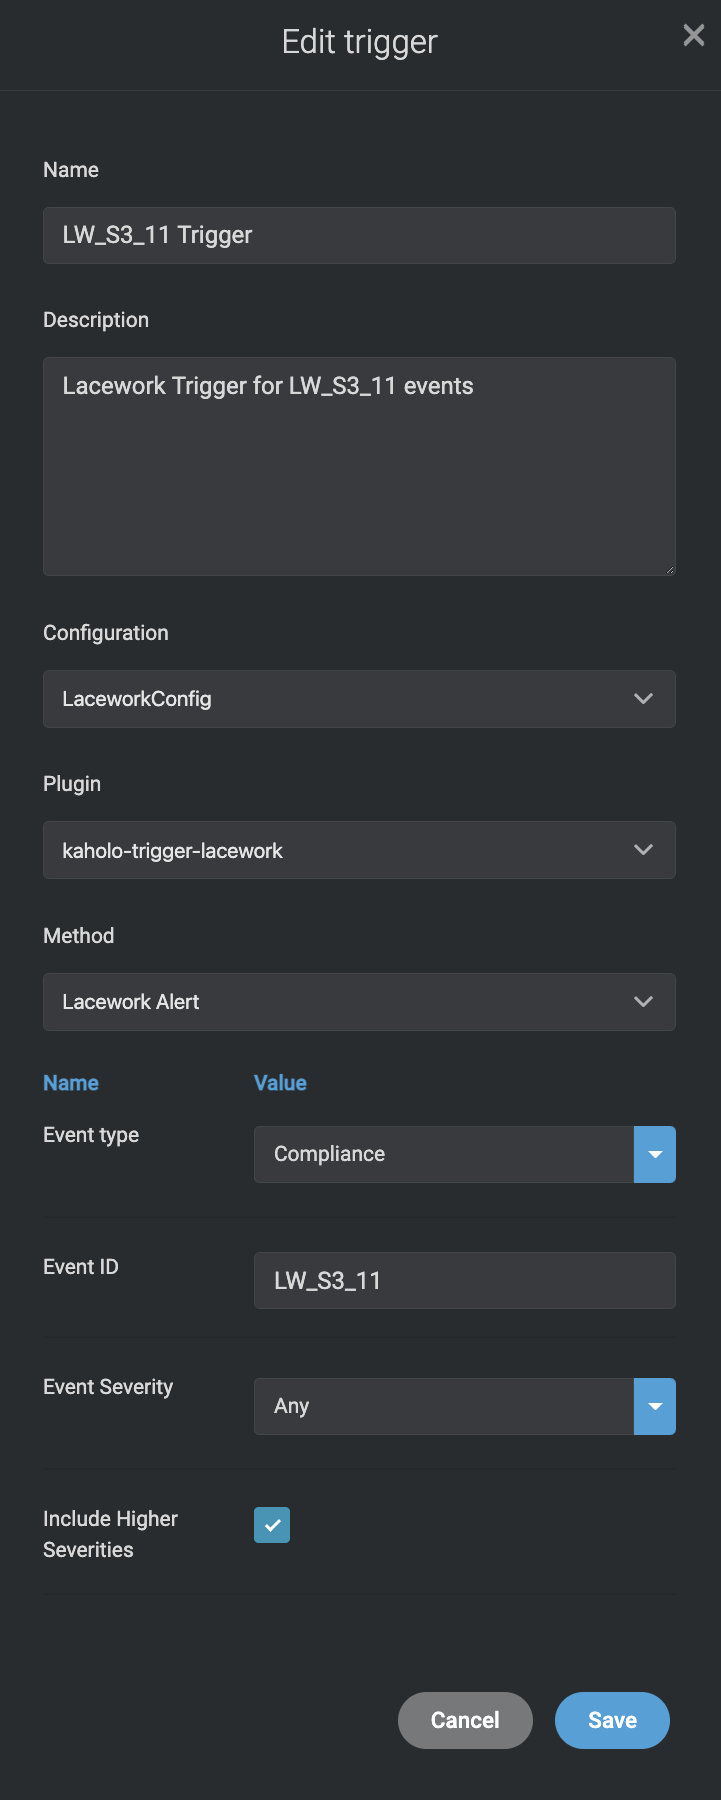
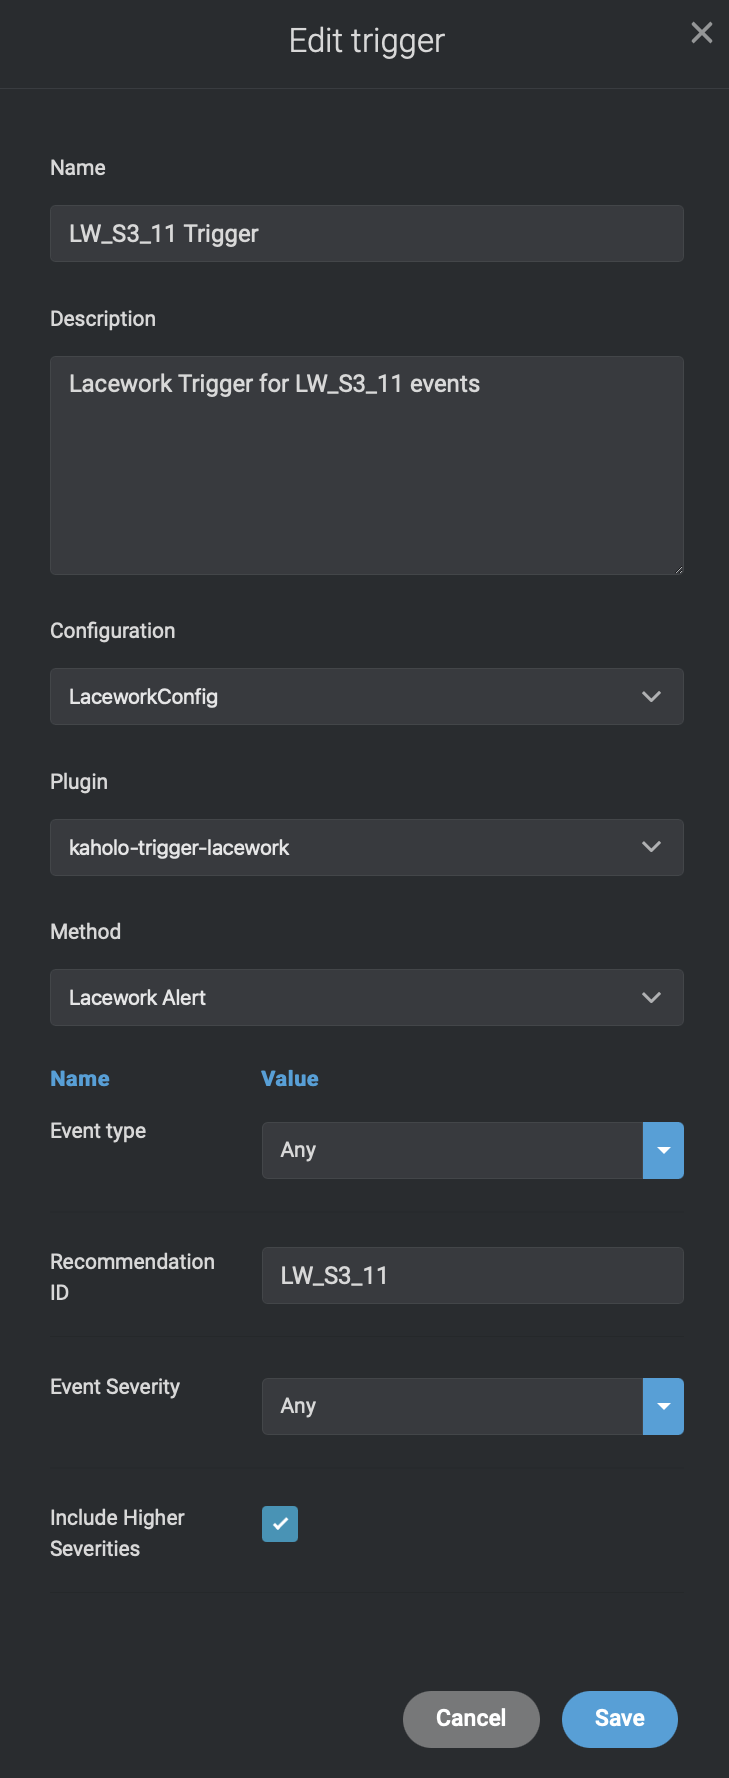
Updating for new Webhook trigger
Updating the Event ID to Recommendation ID

diff --git a/maps/compliance/aws/LW_S3_17/README.md b/maps/compliance/aws/LW_S3_17/README.md
@@ -117,7 +117,7 @@ Make sure that the Map Webhook Trigger is configured with the following configur
 2. The Plugin setting needs to be configured with the Lacework Webhook Plugin **kaholo-trigger-lacework**
 3. For the Method setting you need to select **Lacework Alert**
 4. The Variable **Event type** needs to be configured with Value **Compliance**
-5. The Variable **Event ID** needs to be configured with Value **LW_S3_17**.
+5. The Variable **Recommendation ID** needs to be configured with Value **LW_S3_17**.
 6. The Variable **Event Severity** needs to be configured with the Value **Any** or **High**
 7. Make sure to enable the Checkbox **Include Higher Severities**.
 

diff --git a/maps/compliance/aws/LW_S3_10/README.md b/maps/compliance/aws/LW_S3_10/README.md
@@ -74,7 +74,7 @@ Make sure that the Map Webhook Trigger is configured with the following configur
 2. The Plugin setting needs to be configured with the Lacework Webhook Plugin **kaholo-trigger-lacework**
 3. For the Method setting you need to select **Lacework Alert**
 4. The Variable **Event type** needs to be configured with Value **Compliance**
-5. The Variable **Event ID** needs to be configured with Value **LW_S3_10**.
+5. The Variable **Recommendation ID** needs to be configured with Value **LW_S3_10**.
 6. The Variable **Event Severity** needs to be configured with the Value **Any** or **High**
 7. Make sure to enable the Checkbox **Include Higher Severities**.
 

diff --git a/maps/compliance/aws/LW_S3_11/README.md b/maps/compliance/aws/LW_S3_11/README.md
@@ -91,7 +91,7 @@ Make sure that the Map Webhook Trigger is configured with the following configur
 2. The Plugin setting needs to be configured with the Lacework Webhook Plugin **kaholo-trigger-lacework**
 3. For the Method setting you need to select **Lacework Alert**
 4. The Variable **Event type** needs to be configured with Value **Compliance**
-5. The Variable **Event ID** needs to be configured with Value **LW_S3_11**.
+5. The Variable **Recommendation ID** needs to be configured with Value **LW_S3_11**.
 6. The Variable **Event Severity** needs to be configured with the Value **Any** or **High**
 7. Make sure to enable the Checkbox **Include Higher Severities**.
 

diff --git a/maps/compliance/aws/LW_S3_12/README.md b/maps/compliance/aws/LW_S3_12/README.md
@@ -70,7 +70,7 @@ Make sure that the Map Webhook Trigger is configured with the following configur
 2. The Plugin setting needs to be configured with the Lacework Webhook Plugin **kaholo-trigger-lacework**
 3. For the Method setting you need to select **Lacework Alert**
 4. The Variable **Event type** needs to be configured with Value **Compliance**
-5. The Variable **Event ID** needs to be configured with Value **LW_S3_12**.
+5. The Variable **Recommendation ID** needs to be configured with Value **LW_S3_12**.
 6. The Variable **Event Severity** needs to be configured with the Value **Any** or **High**
 7. Make sure to enable the Checkbox **Include Higher Severities**.
 

diff --git a/maps/compliance/aws/LW_S3_13/README.md b/maps/compliance/aws/LW_S3_13/README.md
@@ -71,7 +71,7 @@ Make sure that the Map Webhook Trigger is configured with the following configur
 2. The Plugin setting needs to be configured with the Lacework Webhook Plugin **kaholo-trigger-lacework**
 3. For the Method setting you need to select **Lacework Alert**
 4. The Variable **Event type** needs to be configured with Value **Compliance**
-5. The Variable **Event ID** needs to be configured with Value **LW_S3_13**.
+5. The Variable **Recommendation ID** needs to be configured with Value **LW_S3_13**.
 6. The Variable **Event Severity** needs to be configured with the Value **Any** or **High**
 7. Make sure to enable the Checkbox **Include Higher Severities**.
 

diff --git a/maps/compliance/aws/LW_S3_14/README.md b/maps/compliance/aws/LW_S3_14/README.md
@@ -71,7 +71,7 @@ Make sure that the Map Webhook Trigger is configured with the following configur
 2. The Plugin setting needs to be configured with the Lacework Webhook Plugin **kaholo-trigger-lacework**
 3. For the Method setting you need to select **Lacework Alert**
 4. The Variable **Event type** needs to be configured with Value **Compliance**
-5. The Variable **Event ID** needs to be configured with Value **LW_S3_14**.
+5. The Variable **Recommendation ID** needs to be configured with Value **LW_S3_14**.
 6. The Variable **Event Severity** needs to be configured with the Value **Any** or **High**
 7. Make sure to enable the Checkbox **Include Higher Severities**.
 

diff --git a/maps/compliance/aws/LW_S3_15/README.md b/maps/compliance/aws/LW_S3_15/README.md
@@ -81,7 +81,7 @@ Make sure that the Map Webhook Trigger is configured with the following configur
 2. The Plugin setting needs to be configured with the Lacework Webhook Plugin **kaholo-trigger-lacework**
 3. For the Method setting you need to select **Lacework Alert**
 4. The Variable **Event type** needs to be configured with Value **Compliance**
-5. The Variable **Event ID** needs to be configured with Value **LW_S3_15**.
+5. The Variable **Recommendation ID** needs to be configured with Value **LW_S3_15**.
 6. The Variable **Event Severity** needs to be configured with the Value **Any** or **High**
 7. Make sure to enable the Checkbox **Include Higher Severities**.
 

diff --git a/maps/compliance/aws/LW_S3_16/README.md b/maps/compliance/aws/LW_S3_16/README.md
@@ -73,7 +73,7 @@ Make sure that the Map Webhook Trigger is configured with the following configur
 2. The Plugin setting needs to be configured with the Lacework Webhook Plugin **kaholo-trigger-lacework**
 3. For the Method setting you need to select **Lacework Alert**
 4. The Variable **Event type** needs to be configured with Value **Compliance**
-5. The Variable **Event ID** needs to be configured with Value **LW_S3_16**.
+5. The Variable **Recommendation ID** needs to be configured with Value **LW_S3_16**.
 6. The Variable **Event Severity** needs to be configured with the Value **Any** or **High**
 7. Make sure to enable the Checkbox **Include Higher Severities**.
 

diff --git a/maps/compliance/aws/LW_S3_18/README.md b/maps/compliance/aws/LW_S3_18/README.md
@@ -90,7 +90,7 @@ Make sure that the Map Webhook Trigger is configured with the following configur
 2. The Plugin setting needs to be configured with the Lacework Webhook Plugin **kaholo-trigger-lacework**
 3. For the Method setting you need to select **Lacework Alert**
 4. The Variable **Event type** needs to be configured with Value **Compliance**
-5. The Variable **Event ID** needs to be configured with Value **LW_S3_18**.
+5. The Variable **Recommendation ID** needs to be configured with Value **LW_S3_18**.
 6. The Variable **Event Severity** needs to be configured with the Value **Any** or **High**
 7. Make sure to enable the Checkbox **Include Higher Severities**.
 

diff --git a/maps/compliance/aws/LW_S3_19/README.md b/maps/compliance/aws/LW_S3_19/README.md
@@ -91,7 +91,7 @@ Make sure that the Map Webhook Trigger is configured with the following configur
 2. The Plugin setting needs to be configured with the Lacework Webhook Plugin **kaholo-trigger-lacework**
 3. For the Method setting you need to select **Lacework Alert**
 4. The Variable **Event type** needs to be configured with Value **Compliance**
-5. The Variable **Event ID** needs to be configured with Value **LW_S3_19**.
+5. The Variable **Recommendation ID** needs to be configured with Value **LW_S3_19**.
 6. The Variable **Event Severity** needs to be configured with the Value **Any** or **High**
 7. Make sure to enable the Checkbox **Include Higher Severities**.
 

diff --git a/maps/compliance/aws/LW_S3_20/README.md b/maps/compliance/aws/LW_S3_20/README.md
@@ -90,7 +90,7 @@ Make sure that the Map Webhook Trigger is configured with the following configur
 2. The Plugin setting needs to be configured with the Lacework Webhook Plugin **kaholo-trigger-lacework**
 3. For the Method setting you need to select **Lacework Alert**
 4. The Variable **Event type** needs to be configured with Value **Compliance**
-5. The Variable **Event ID** needs to be configured with Value **LW_S3_20**.
+5. The Variable **Recommendation ID** needs to be configured with Value **LW_S3_20**.
 6. The Variable **Event Severity** needs to be configured with the Value **Any** or **High**
 7. Make sure to enable the Checkbox **Include Higher Severities**.
 

diff --git a/maps/compliance/aws/LW_S3_21/README.md b/maps/compliance/aws/LW_S3_21/README.md
@@ -90,7 +90,7 @@ Make sure that the Map Webhook Trigger is configured with the following configur
 2. The Plugin setting needs to be configured with the Lacework Webhook Plugin **kaholo-trigger-lacework**
 3. For the Method setting you need to select **Lacework Alert**
 4. The Variable **Event type** needs to be configured with Value **Compliance**
-5. The Variable **Event ID** needs to be configured with Value **LW_S3_21**.
+5. The Variable **Recommendation ID** needs to be configured with Value **LW_S3_21**.
 6. The Variable **Event Severity** needs to be configured with the Value **Any** or **High**
 7. Make sure to enable the Checkbox **Include Higher Severities**.
 
